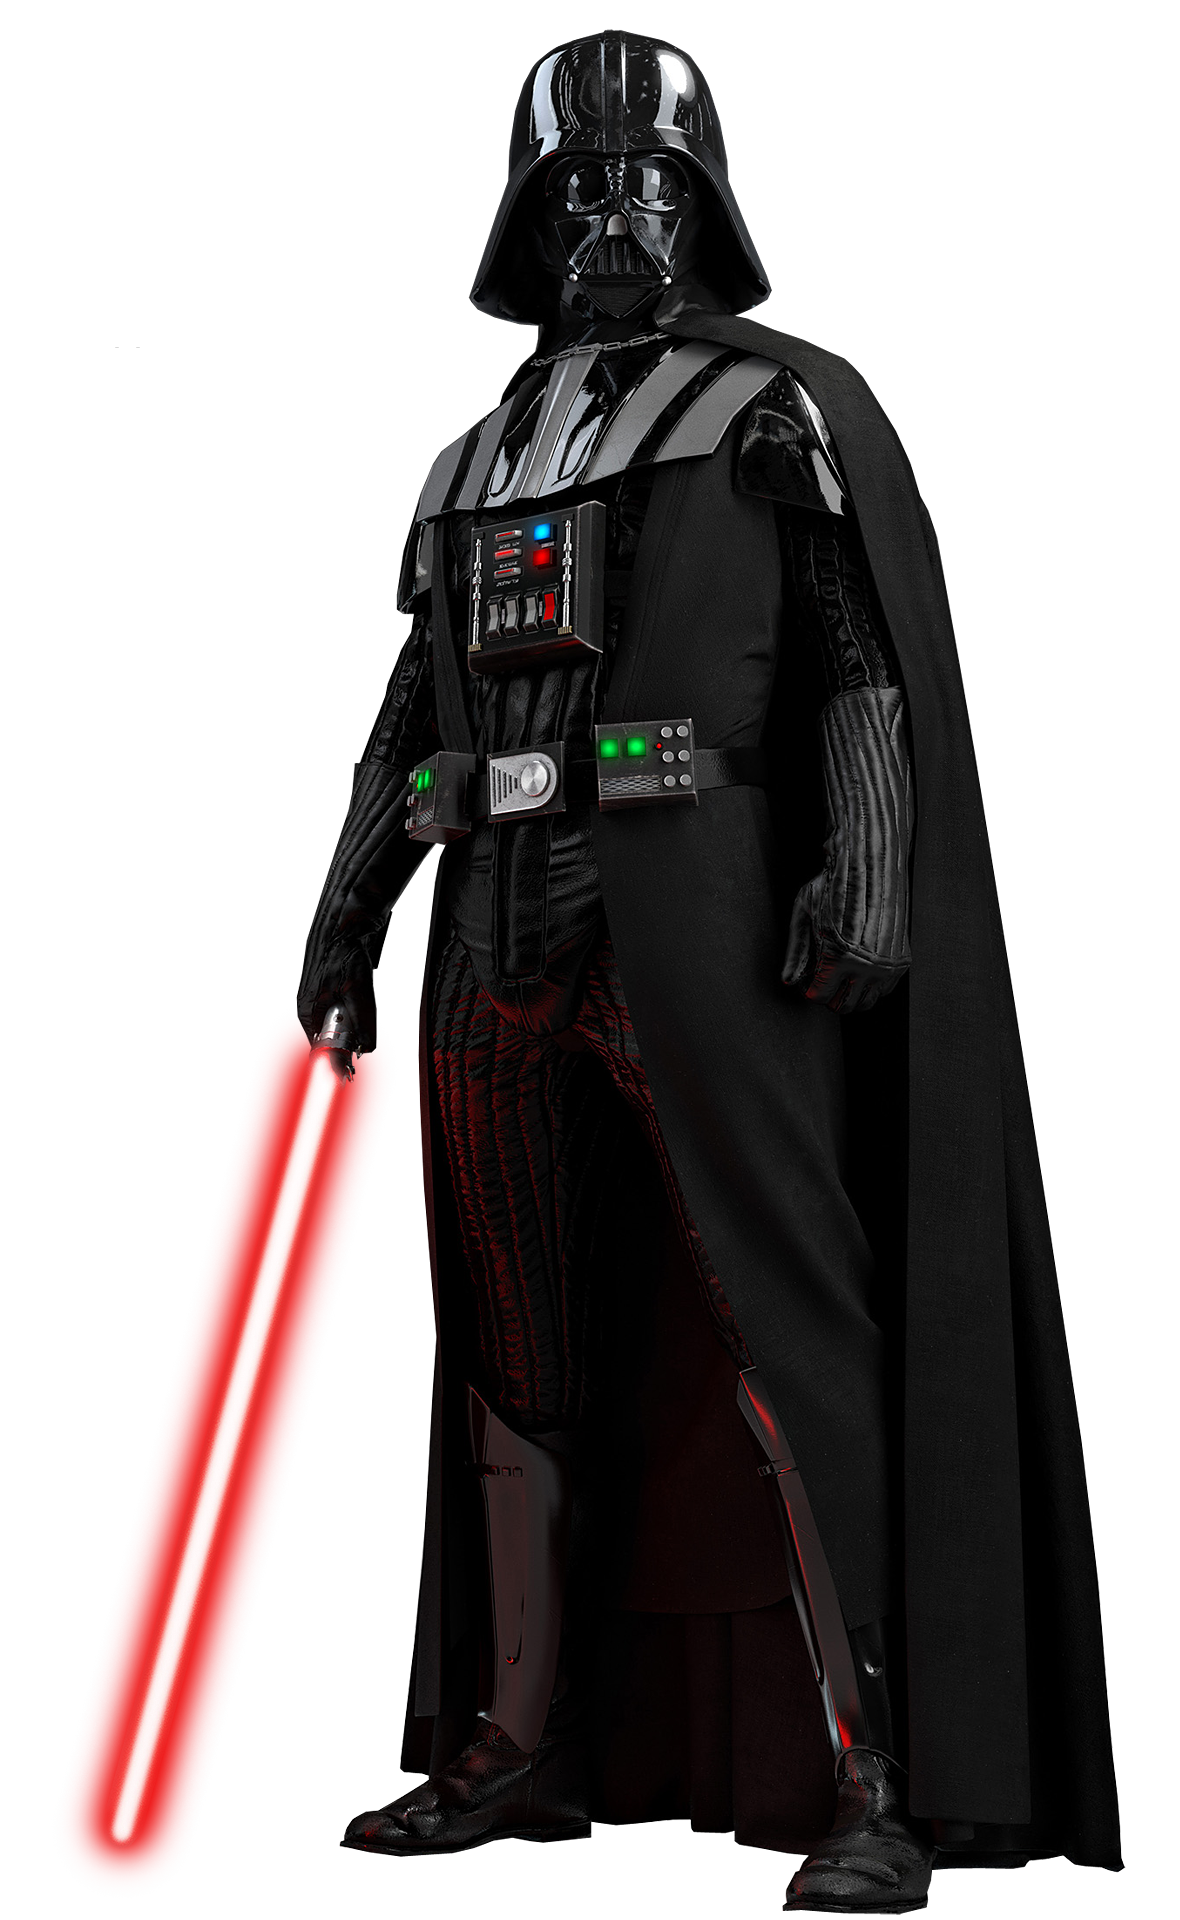
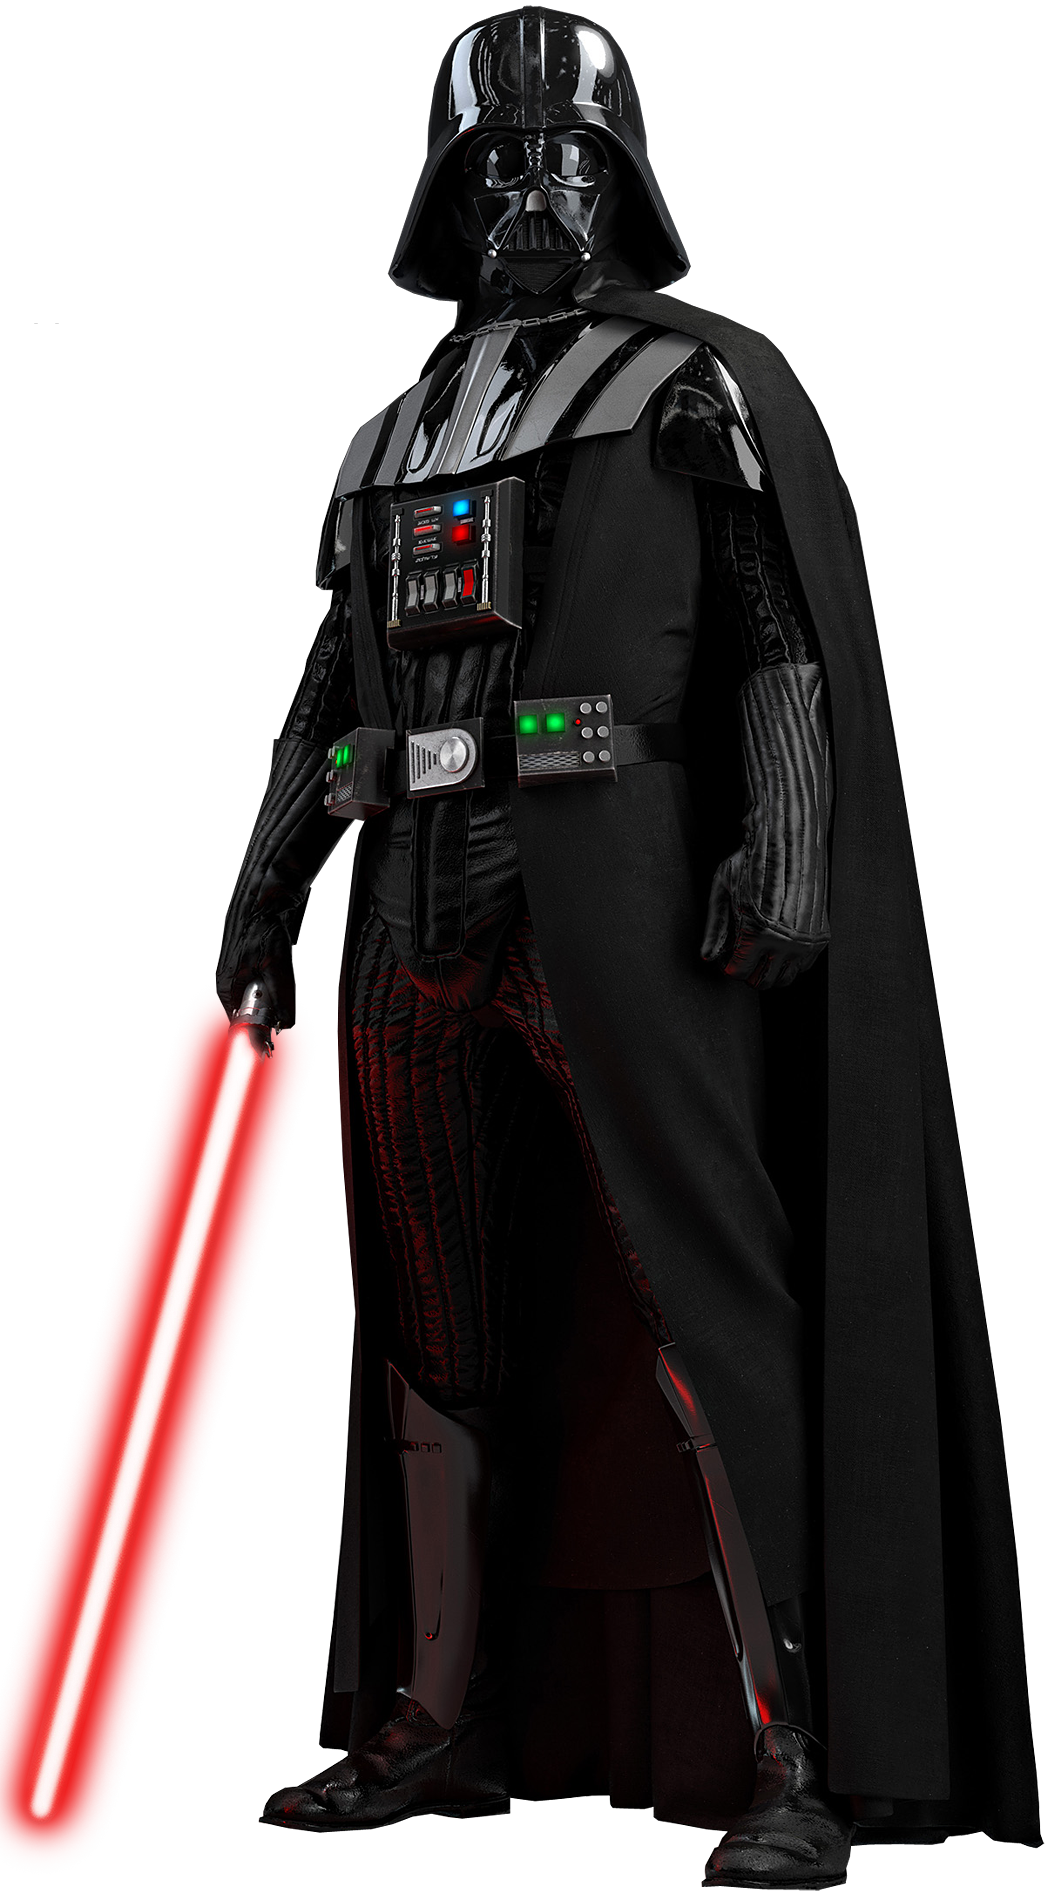
Making some changes

diff --git a/src/app/components/banner/index.tsx b/src/app/components/banner/index.tsx
@@ -3,7 +3,7 @@ import '../../../app/globals.css'
 import React from 'react'
 import styled from 'styled-components'
 import Image from 'next/image'
-import LogoImage from '../../../assets/logo.webp'
+import LogoImage from '../../../assets/logo.png'
 import DarthVader from '../../../assets/darthvader.png'
 import Lightsaber from '../../../assets/lightsaber.gif'
 
@@ -39,7 +39,6 @@ const PreLoader = styled.div`
 
 const Container = styled.div`
     position: relative;
-    width: 100%;
     height: 100vh;
     overflow: hidden;
 
@@ -52,20 +51,20 @@ const Container = styled.div`
         z-index: 0;
         object-fit: cover;
         opacity: 0.3;
-        z-index: 0;
     }
 `
 
 const BannerWrapper = styled.div`
     display: flex;
-    width: 100%;
     justify-content: center;
     z-index: 9;
+    padding: 10px;
 
     #vader {
         opacity: 0;
         animation: fade-in 4s ease-in-out forwards;
         pointer-events: none;
+        height: 1400px;
 
         @media screen and (max-width: 1440px){
             width: 700px;
@@ -89,19 +88,18 @@ const BannerWrapper = styled.div`
 const ImageTitleWrapper = styled.div`
     display: flex;
     margin-top: 250px;
-    position: relative;
+    justify-content: flex-start;
     align-items: center;
     flex-direction: column;
     opacity: 0;
     animation: separate 3s ease-in-out forwards;
     pointer-events: none;
-    max-width: 560px;
+    max-width: 700px;
+    row-gap: 30px;
 
     img {
-        @media screen and (max-width: 1440px){
-            max-width: 400px;
-            height: 250px;
-        }
+        width: 100%;
+        height: auto;
     }
 
     @keyframes separate {
@@ -120,9 +118,9 @@ const Subtitle = styled.h2`
     font-family: 'IBM Plex Mono', monospace;
     font-size: 24px;
     color: #FFE81F;
+    margin-left: 10px;
 
     @media screen and (max-width: 1440px){
-        width: 320px;
         font-size: 20px;
     }
 `
@@ -148,7 +146,6 @@ export default function Banner() {
                 <ImageTitleWrapper>
                     <Image 
                         src={LogoImage}
-                        width={700}
                         alt='logo'
                     />
                     <Subtitle>Darth Vader, born as Anakin Skywalker, is a central character in the Star Wars saga. Initially a heroic Jedi Knight, Anakin succumbs to the dark side of the Force and becomes the iconic Sith Lord known as Darth Vader.</Subtitle>
